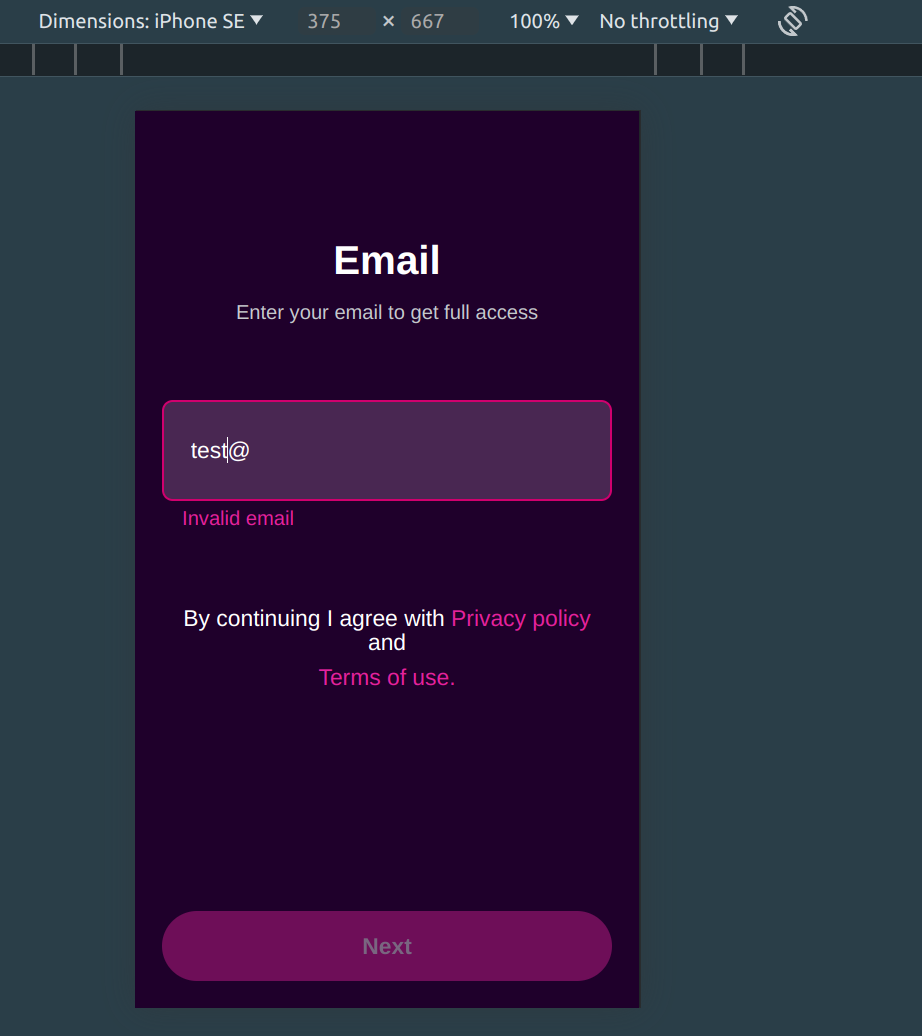
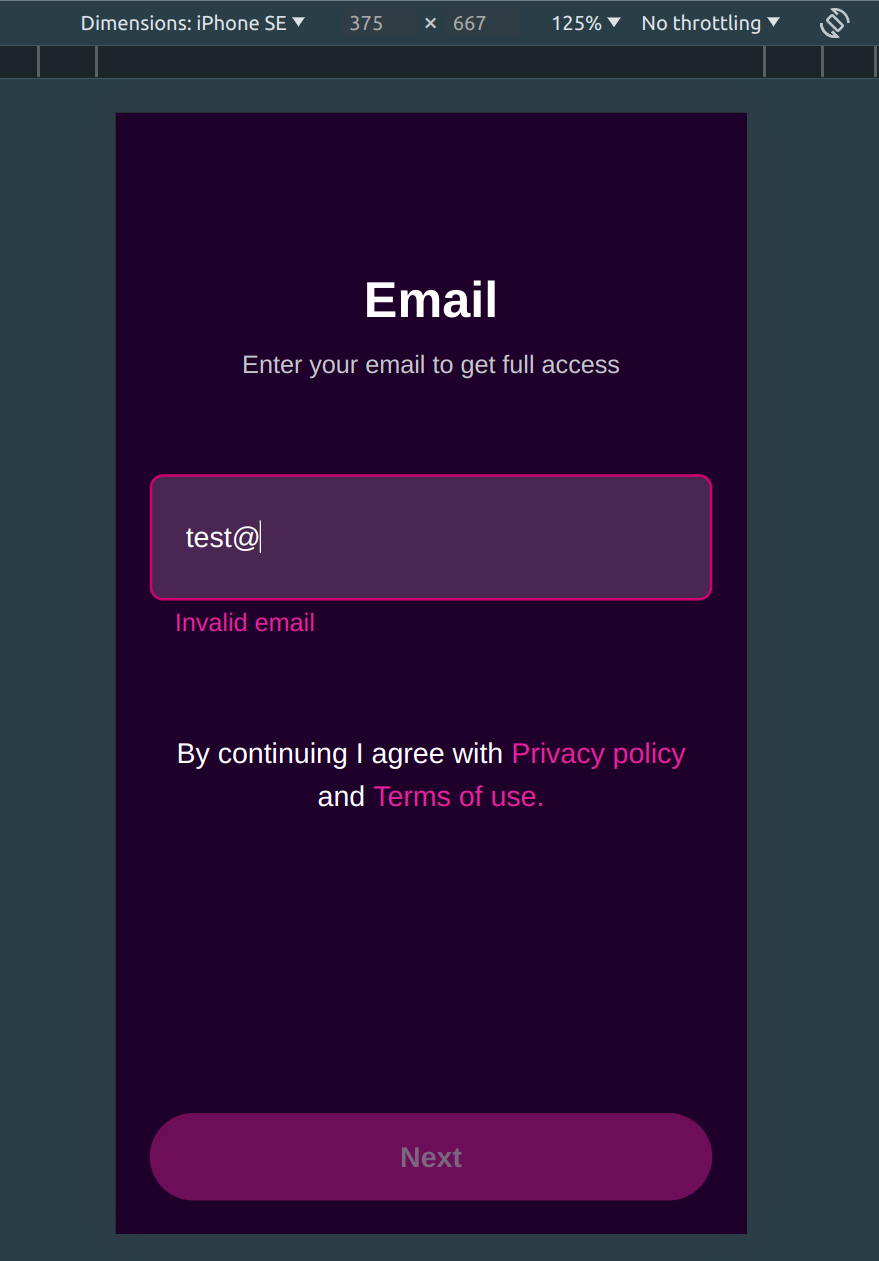
Refactor and Fix

Changed region(s): [[0.0, 0.0, 1.0, 0.9884]]

diff --git a/src/app/router/router.tsx b/src/app/router/router.tsx
@@ -1,9 +1,5 @@
 import { createBrowserRouter, redirect } from 'react-router-dom';
 import RootLayout from 'shared/layouts/RootLayout/ui/RootLayout.tsx';
-import { ErrorQuiz, Quiz } from 'pages/Quiz';
-import { Loader } from 'pages/Loader';
-import { Email } from 'pages/Email';
-import { ThankYou } from 'pages/ThankYou';
 import { RoutersPath } from 'shared/const/routers.ts';
 
 export const router = createBrowserRouter([
@@ -21,20 +17,35 @@ export const router = createBrowserRouter([
             {
                 index: true,
                 path: `${RoutersPath.QUIZ}:id`,
-                element: <Quiz />,
-                errorElement: <ErrorQuiz />,
+                lazy: async () => {
+                    const { Quiz, ErrorQuiz } = await import('pages/Quiz');
+
+                    return {
+                        Component: Quiz,
+                        errorElement: <ErrorQuiz />,
+                    };
+                },
             },
             {
                 path: RoutersPath.LOADER,
-                element: <Loader />,
+                lazy: async () => {
+                    const { Loader } = await import('pages/Loader');
+                    return { Component: Loader };
+                },
             },
             {
                 path: RoutersPath.EMAIL,
-                element: <Email />,
+                lazy: async () => {
+                    const { Email } = await import('pages/Email');
+                    return { Component: Email };
+                },
             },
             {
                 path: RoutersPath.THANK_YOU,
-                element: <ThankYou />,
+                lazy: async () => {
+                    const { ThankYou } = await import('pages/ThankYou');
+                    return { Component: ThankYou };
+                },
             },
         ],
     },

diff --git a/src/pages/Email/ui/Email.module.scss b/src/pages/Email/ui/Email.module.scss
@@ -35,9 +35,9 @@
 
 .text_highlight {
     color: var(--color-02);
+    line-height: 1.5;
 
     &.terms_of_use {
-        display: block;
-        margin-top: 0.8rem;
+        display: inline-block;
     }
 }
